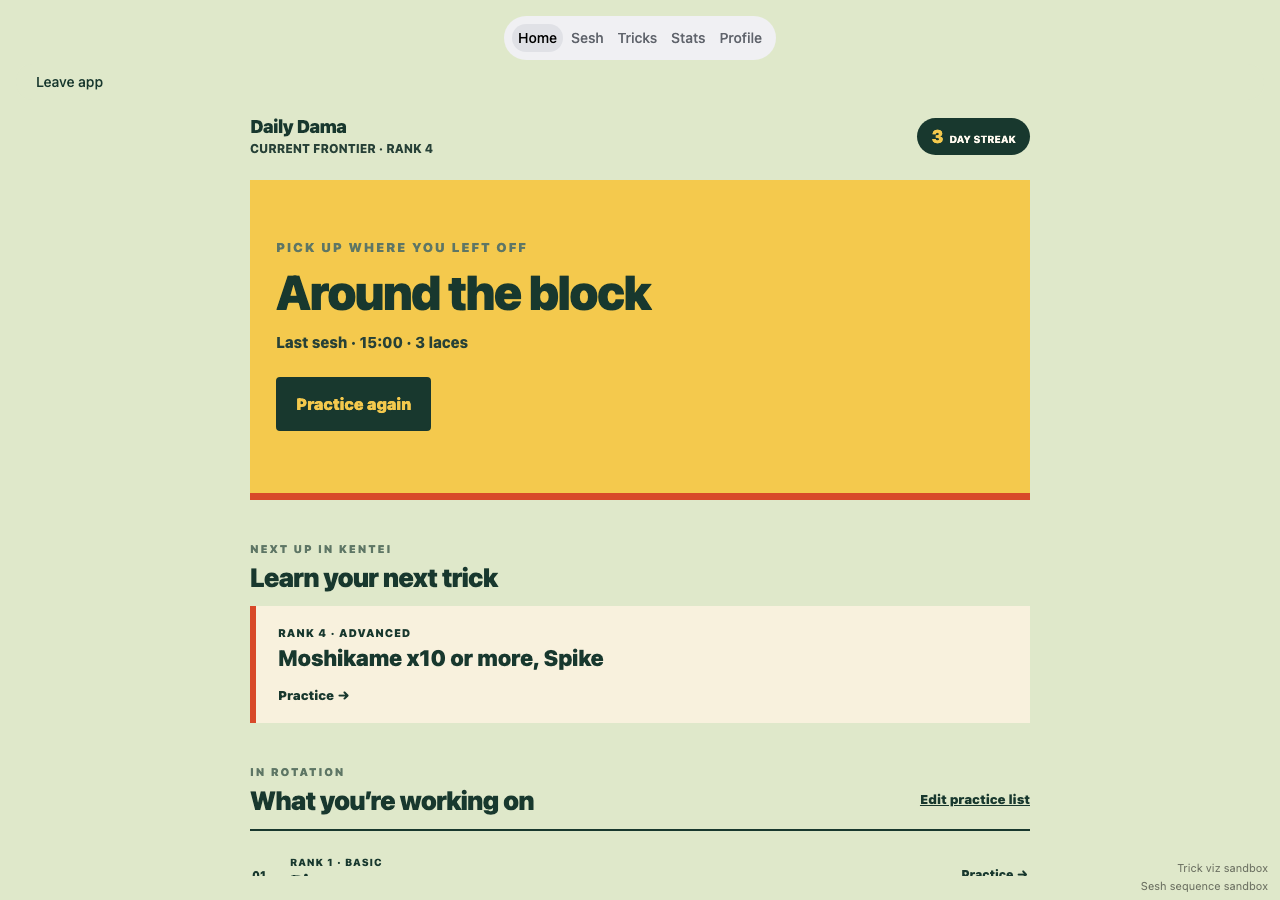
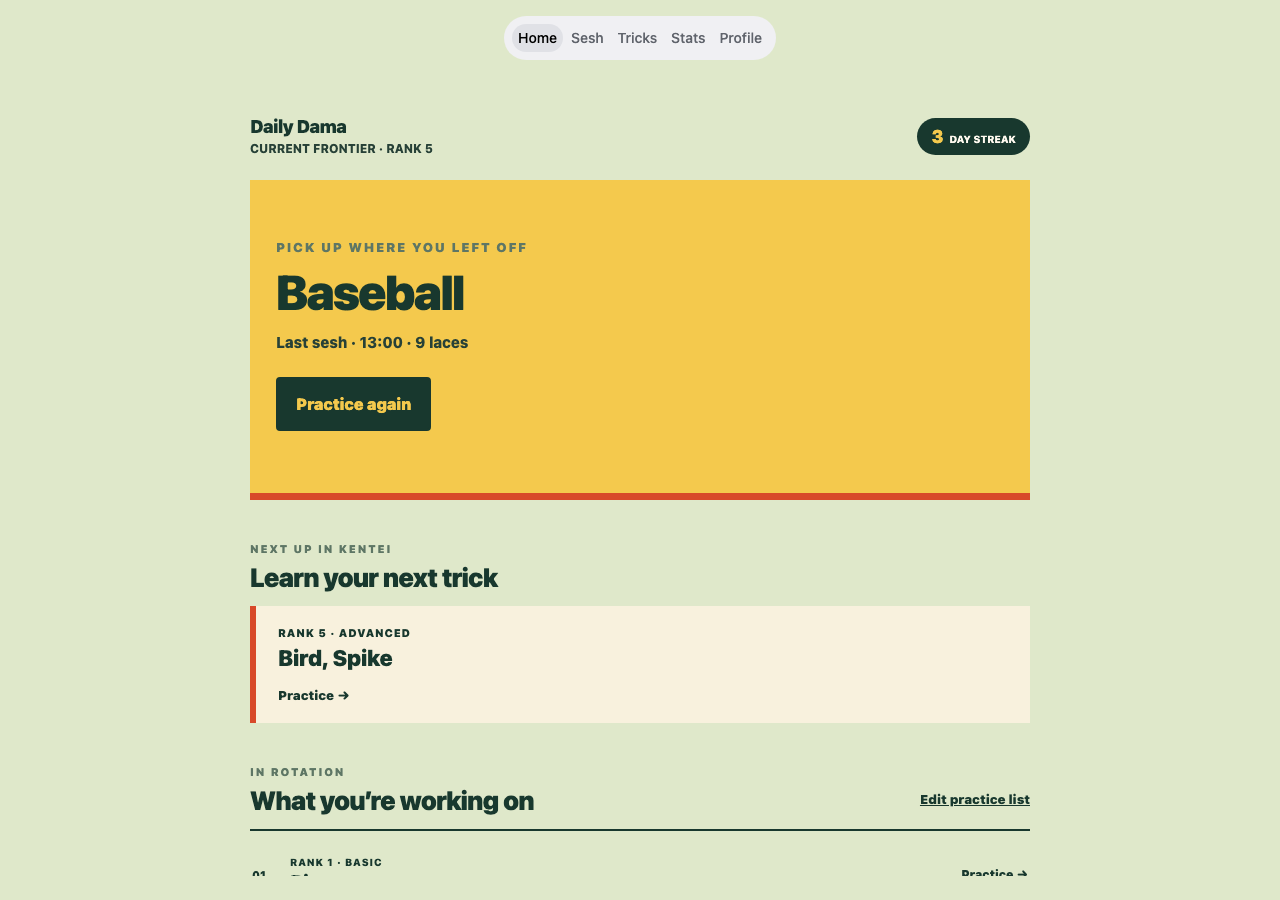
[T238] Refresh landing page screenshots (#311)
* Claim `T238`

Claim-Nonce: 76aeb73e-7a00-4d6b-acba-7b48bb15722a

* Add plan for `T238`

* [T238] Refresh landing page screenshots

Recapture all eight landing showcase assets against a seeded local dev
server: replace the "first lace, first cheer" slot with a sesh-setup
screenshot (Open-ended selected, target laces, multi-trick panel, ranks
1-4) and matching copy, refresh the stale trick-goals cards, remove
dev-only sandbox links and "Leave app" text from every asset, and crop
the hero fallback instead of recapturing it. Update landing-page.tsx
and its test literal to match.

diff --git a/src/features/landing/components/landing-page.tsx b/src/features/landing/components/landing-page.tsx
@@ -51,8 +51,9 @@ const SCREENSHOT_CONTENT: readonly ScreenshotContent[] = [
     caption: 'Open the app and the loop is right there: what you last practiced, what’s next, and how the streak is going.',
   },
   {
-    title: 'First lace, first cheer',
-    caption: 'The moment a trick actually lands for the first time, Daily Dama says so.',
+    title: 'Set the terms of the sesh',
+    caption:
+      'Run the clock down, chase a lace count, or line up several tricks and work the whole set in one sesh.',
   },
   {
     title: 'Your move, your rank',
@@ -71,8 +72,8 @@ const MOBILE_SCREENSHOT_ASSETS: readonly PlatformScreenshotAsset[] = [
     aspectRatio: 375 / 812,
   },
   {
-    source: require('@/assets/images/landing/sesh-first-lace.png'),
-    alt: 'Sesh screen celebrating the first-ever lace on a trick mid-session',
+    source: require('@/assets/images/landing/sesh-open-ended.png'),
+    alt: 'Sesh setup screen with the open-ended format selected, a target lace count, and a focused-trick list spanning several Kentei ranks',
     aspectRatio: 375 / 812,
   },
   {
@@ -94,8 +95,8 @@ const WEB_SCREENSHOT_ASSETS: readonly PlatformScreenshotAsset[] = [
     aspectRatio: 1280 / 900,
   },
   {
-    source: require('@/assets/images/landing/sesh-first-lace-web.png'),
-    alt: 'Sesh screen in the desktop web layout celebrating the first-ever lace on a trick mid-session',
+    source: require('@/assets/images/landing/sesh-open-ended-web.png'),
+    alt: 'Sesh setup screen in the desktop web layout with the open-ended format selected, a target lace count, and a focused-trick list spanning several Kentei ranks',
     aspectRatio: 1280 / 900,
   },
   {

diff --git a/src/features/landing/components/landing-page.test.tsx b/src/features/landing/components/landing-page.test.tsx
@@ -69,8 +69,9 @@ const SCREENSHOT_TITLES_AND_CAPTIONS: ReadonlyArray<{ title: string; caption: st
       'Open the app and the loop is right there: what you last practiced, what’s next, and how the streak is going.',
   },
   {
-    title: 'First lace, first cheer',
-    caption: 'The moment a trick actually lands for the first time, Daily Dama says so.',
+    title: 'Set the terms of the sesh',
+    caption:
+      'Run the clock down, chase a lace count, or line up several tricks and work the whole set in one sesh.',
   },
   {
     title: 'Your move, your rank',
@@ -363,5 +364,19 @@ describe('LandingPage platform-based screenshot set', () => {
 
     expect(images.length).toBeGreaterThan(0);
     expect(mobileImages.length).toBe(0);
+  });
+
+  it('renders the sesh screenshot alt for both the mobile and web asset sets', async () => {
+    mockUseWindowDimensions.mockReturnValue({ width: 375, height: 812, scale: 2, fontScale: 1 });
+    const mobileRoot = await mount();
+    const mobileImages = mobileRoot.root.findAll(
+      (node) => node.props.alt === MOBILE_SCREENSHOTS[1]!.alt,
+    );
+    expect(mobileImages.length).toBeGreaterThan(0);
+
+    mockUseWindowDimensions.mockReturnValue({ width: 1280, height: 900, scale: 1, fontScale: 1 });
+    const webRoot = await mount();
+    const webImages = webRoot.root.findAll((node) => node.props.alt === WEB_SCREENSHOTS[1]!.alt);
+    expect(webImages.length).toBeGreaterThan(0);
   });
 });

diff --git a/TASKS_DONE.md b/TASKS_DONE.md
@@ -14,6 +14,16 @@ Entries keep their content as it was at completion. Don't retroactively edit a d
 - **Exit criteria:** Local: Mailpit receives the new template for a local email-change request, matching `confirmation.html`/`recovery.html`'s branding (cream/paper background, ink border, hard drop shadow, red uppercase eyebrow, ink-background/yellow-text button). Hosted: per `supabase/README.md`'s "Troubleshooting: Mailpit isn't proof of hosted email delivery" note, verify the *hosted* project separately — either a real `changeEmail` request's delivered message or, more directly, Resend's own delivery log for that send — not Mailpit alone. Met: `supabase/templates/email_change.html` added following `confirmation.html`'s branded pattern and wired via `[auth.email.template.email_change]` in `config.toml`. Local: a real signup/confirm/`updateUser({ email })` cycle against the local stack delivered the template to Mailpit with all five branding elements intact and a valid `type=email_change` confirmation link. Hosted: applied via a targeted `PATCH /v1/projects/{ref}/config/auth` (`mailer_subjects_email_change`/`mailer_templates_email_change_content` only), then the account owner pointed the app at the hosted project, signed in with a real confirmed hosted account, and triggered a real `changeEmail` request through `AccountSecurityScreen`'s UI — the branded template was confirmed delivered via Resend's own delivery log (not Mailpit). See `supabase/HOSTED_DEV_CONFIG.md`'s 2026-09-04 update.
 - **Notes:** Not from a BACKLOG_STORIES story — scoped directly during T212's investigation (2026-09-02), which surveyed every GoTrue email type this app can currently trigger. Invite, magic link, reauthentication, and the various notification emails (password/email/phone-changed, MFA enrolled/unenrolled, identity linked/unlinked) are excluded: none of them are reachable by any current app flow (no admin-invite, OTP, MFA, phone auth, or OAuth identity linking), and the password-changed notification is disabled outright in `config.toml`, not just unbranded. If any of those flows is added later, it needs this same treatment.
 
+### [T238] Refresh landing page screenshots
+
+- **Area:** Landing page
+- **Priority:** Medium
+- **Status:** Done
+- **Planning:** Required
+- **Description:** Recapture the landing page's trick goals screenshot (styling has changed since it was captured) and replace the "first lace, first cheer" screenshot with a new screenshot of the sesh home screen (Open-ended flow), prepopulated with a list of focused tricks representative of a range of Kentei ranks, paired with copy explaining that a sesh can be time-based or lace-based and can include multiple tricks at once. While recapturing, ensure no landing-page screenshot (these two or any other existing one) shows "Leave app" text or any other UI that no longer exists in the shipped app.
+- **Exit criteria:** Met. All eight showcase assets were recaptured (not only the two named slots) against a local Expo web dev server, seeded via `localStorage` with a guest profile spanning Kentei ranks 1-7, three practice-history sessions, and three goals. Confirmed via the captured asset files and in-browser at both a 1280x900 desktop viewport and a 390x844 mobile viewport: the trick goals screenshot shows the current pressable-card styling with the `8px 8px 0` hard shadow and right-aligned trick name; the former "first lace, first cheer" slot is replaced by `sesh-open-ended.png`/`sesh-open-ended-web.png`, showing the Open-ended format selected, a target lace count of 10, the "Practice several tricks" panel, and focused tricks spanning ranks 1-4, paired with new copy ("Set the terms of the sesh" / "Run the clock down, chase a lace count, or line up several tricks and work the whole set in one sesh.") naming all three sesh types; and no landing-page screenshot shows "Leave app" text (verified by removing the two `__DEV__`-only sandbox links and the dev-only React error-overlay toast from the DOM before each capture, then visually inspecting every asset). `landing-hero-fallback.png` was cropped (not recaptured) to remove the app nav bar and "Leave app" band while keeping the wordmark intact and the 4:3 aspect ratio. `sesh-first-lace.png`/`sesh-first-lace-web.png` were removed from the index. `landing-page.tsx`'s slot-1 content/asset entries and `landing-page.test.tsx`'s duplicated title/caption literal and platform-set tests were updated to match, plus a new test asserting the sesh screenshot alt renders in both asset sets. `node .claude/scripts/verify.mjs` (test, lint, typecheck, web export) passed.
+- **Notes:** From S108, S109, S110 — merged into one ticket because all three recapture the same landing-page screenshot set; scoping them separately would mean two passes touching the same assets. Six of the eight original assets were non-compliant on their own once inspected (macOS Vision OCR): four `-web` assets carried "Leave app", both Home assets carried dev-only sandbox links, and both goal assets were stale — so all eight were recaptured in one pass for fixture consistency. See the deleted `.claude/plans/T238.md` for full investigation notes (asset audit table, fixture document shapes, and capture-script approach).
+
 ### [T219] Show the signup invite in the note prompt's slot on a first-ever guest Sesh
 
 - **Area:** Sesh

diff --git a/TASKS.md b/TASKS.md
@@ -148,16 +148,6 @@ _T219–T224 come from stories S098–S104 in [BACKLOG_STORIES.md](BACKLOG_STORI
 
 _T236–T246 come from stories S106–S118 in [BACKLOG_STORIES.md](BACKLOG_STORIES.md) (the user's 2026-09-04 QA pass on T224/T223.8, plus eleven items of general feedback). T236 (S106), T240 (S112), T241 (S113), T244 (S116), T245 (S117), and T246 (S118) are `Implementer` — local, known-pattern changes: T236 mirrors T224's own precedent exactly (`CALLBACK_MIN_VISIBLE_MS`); T241 mirrors `landing-cta.tsx`'s existing explicit-`style`-prop `boxShadow` pattern (documented inline there, since styled-components/native's CSS shorthand lowers to deprecated RN shadow props); T240 has an existing `fill`/`$fill` width-100% prop on `button.tsx` to reuse. T237 (S107) is `Implementer` despite needing a diagnosis first: tracing `theme-color-picker.tsx` and `text-field.tsx` shows the swatch is already wired through as `TextField`'s `rightAccessory` exactly as T223.8's own notes describe, so the defect is a rendering/layout issue only visible in-browser, not a missing wiring change — genuinely local once found, no architectural risk. T238 (S108+S109+S110) merges three landing-page screenshot stories into one ticket because they'd otherwise recapture the same screenshots twice in two separate passes — `product-manager`'s own notes on S108/S109/S110 flagged this overlap. T239 (S111) is `Required`: `sesh.tsx`'s target-laces field (`targetLandingCount`, line 434-444) has no persistence today, and per `AGENTS.md`'s three-domain state boundary, deciding which existing domain (or a new field on one) owns this value is a persistence-shape decision, not a local styling fix. T242 (S114) and T243 (S115) are both `Required`: T242 reverses a documented deliberate design decision in `landing-auth-cta.tsx` (its own doc comment: "renders nothing once a visitor is authenticated") and adds a new authenticated-only UI surface plus a logout action on a route several prior tickets (T145, T170, T189, T200) have already shown is easy to get wrong around hydration/redirect ordering; T243 changes `landing-cta.tsx`'s copy-selection logic to read `useAuthState()` alongside or instead of `useCachedOnboardingStatus()`, the same class of routing/auth-state boundary risk T200 was scoped `Required` for.
 
-### [T238] Refresh landing page screenshots
-
-- **Area:** Landing page
-- **Priority:** Medium
-- **Status:** Not started
-- **Planning:** Required
-- **Description:** Recapture the landing page's trick goals screenshot (styling has changed since it was captured) and replace the "first lace, first cheer" screenshot with a new screenshot of the sesh home screen (Open-ended flow), prepopulated with a list of focused tricks representative of a range of Kentei ranks, paired with copy explaining that a sesh can be time-based or lace-based and can include multiple tricks at once. While recapturing, ensure no landing-page screenshot (these two or any other existing one) shows "Leave app" text or any other UI that no longer exists in the shipped app.
-- **Exit criteria:** Confirmed in-browser (or via the captured asset files) that: the trick goals screenshot shows current trick goal card styling; the "first lace, first cheer" slot is replaced by a sesh-home screenshot (Open-ended flow, tricks spanning multiple Kentei ranks) with accompanying copy about time-based/lace-based/multi-trick seshes; and no landing-page screenshot shows "Leave app" text.
-- **Notes:** From S108, S109, S110 — merged into one ticket because all three recapture the same landing-page screenshot set; scoping them separately would mean two passes touching the same assets.
-
 ### [T239] Persist target laces across open-ended seshes
 
 - **Area:** Sesh / persistence
